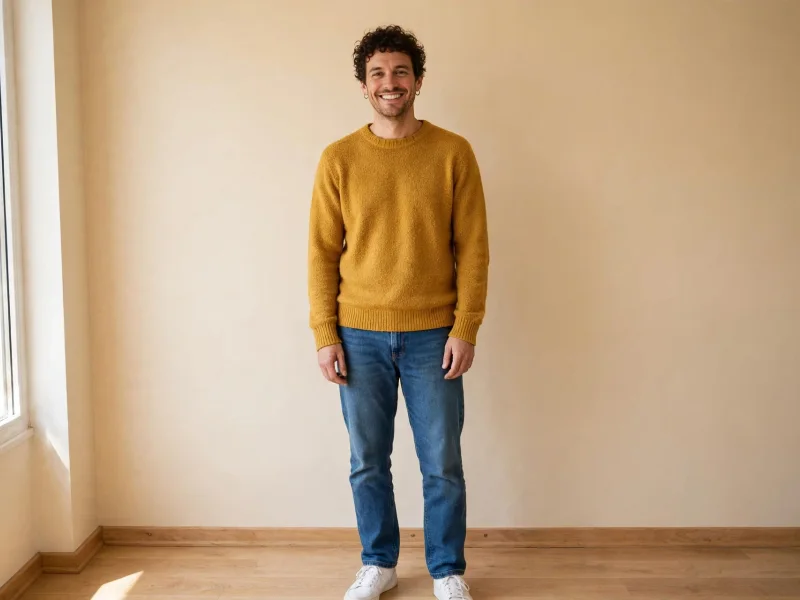
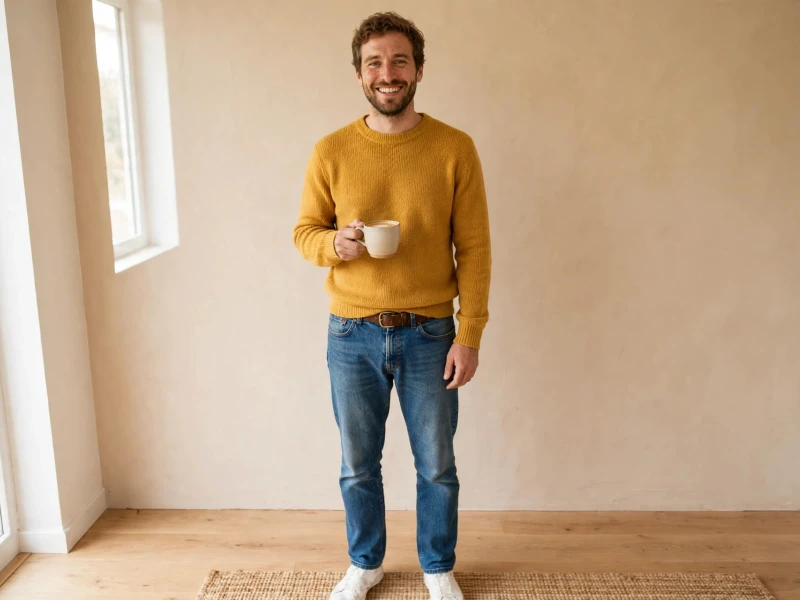
feat: show a person holding a cup in the generator example
The person example card is now 'A person holding product', and its no-product description and image show a smiling person holding a ceramic cup. Create a Person keeps the neutral full-body prompt. The example image was generated with the prompt lab (1¢, landscape, cropped to 800x600) and the lab docs point at the new prompt.

Verified: npm run typecheck, eslint on touched files, vitest library-data, npx playwright test tests/e2e/create-examples.spec.ts tests/e2e/create-person.spec.ts, and the focused studio journey with a refreshed create-empty baseline.

Changed region(s): [[0.0, 0.0, 1.0, 1.0], [0.9688, 0.72, 1.0, 0.81]]

diff --git a/tests/unit/library-data.test.ts b/tests/unit/library-data.test.ts
@@ -3,7 +3,7 @@ import fs from 'node:fs'
 import path from 'node:path'
 import { SCENES, SCENE_CATEGORIES } from '@shared/prompts/scenes'
 import { ALL_TEMPLATES, TEMPLATE_GROUPS, QUICK_FIX, templateAsset, templateById } from '@shared/prompts/templates'
-import { CREATE_PERSON_PROMPT, CREATE_PRODUCT_PROMPT, EXAMPLE_SCENES, STARTERS, exampleTextFor } from '@shared/starters'
+import { CREATE_PERSON_PROMPT, CREATE_PRODUCT_PROMPT, EXAMPLE_SCENES, PERSON_HOLDING_EXAMPLE, STARTERS, exampleTextFor } from '@shared/starters'
 import { BUNDLED_PEOPLE, BUNDLED_PERSON_LOOKS } from '@shared/people'
 import { BUNDLED_PRODUCT_SIZE, BUNDLED_PRODUCTS, bundledProductCards, isBundledProduct } from '@shared/products'
 import { wrapScenePrompt, wrapModelPrompt, PROMPT_MAX } from '@shared/prompts/guards'
@@ -109,7 +109,9 @@ describe('image generator examples', () => {
       expect(scene.productText.length).toBeLessThanOrEqual(240)
       expect(fs.existsSync(path.join(root, 'resources', 'tiles', 'examples', `${scene.key}.webp`))).toBe(true)
     }
-    expect(EXAMPLE_SCENES.find((scene) => scene.key === 'person')?.exampleText).toBe(CREATE_PERSON_PROMPT)
+    expect(EXAMPLE_SCENES.find((scene) => scene.key === 'person')?.exampleText).toBe(PERSON_HOLDING_EXAMPLE)
+    expect(PERSON_HOLDING_EXAMPLE).toContain('holding a ceramic cup')
+    expect(PERSON_HOLDING_EXAMPLE.length).toBeLessThanOrEqual(240)
     expect(CREATE_PERSON_PROMPT.length).toBeGreaterThan(0)
     expect(CREATE_PERSON_PROMPT.length).toBeLessThanOrEqual(240)
   })

diff --git a/src/shared/starters.ts b/src/shared/starters.ts
@@ -199,9 +199,13 @@ export interface ExampleScene {
   productText: string
 }
 
-/** The starting text for Create a Person and the person example card. */
+/** The starting text for Create a Person. */
 export const CREATE_PERSON_PROMPT =
   'A candid full-body photo of a smiling person in their thirties with short curly hair, wearing a mustard sweater and jeans, in a bright room with a plain warm background, natural daylight, head to toe, realistic photo.'
+
+/** The person example card shows a person holding a cup. */
+export const PERSON_HOLDING_EXAMPLE =
+  'A candid full-body photo of a smiling person holding a ceramic cup, wearing a mustard sweater and jeans, in a bright room with a plain warm background, natural daylight, head to toe, realistic photo.'
 
 /** The starting text for Create a Product. */
 export const CREATE_PRODUCT_PROMPT =
@@ -218,8 +222,8 @@ export const EXAMPLE_SCENES: readonly ExampleScene[] = [
   },
   {
     key: 'person',
-    label: 'A new person',
-    exampleText: CREATE_PERSON_PROMPT,
+    label: 'A person holding product',
+    exampleText: PERSON_HOLDING_EXAMPLE,
     productText:
       'A candid full-body photo of a smiling person holding the product, wearing a mustard sweater and jeans, in a bright room with a plain warm background, natural daylight, head to toe, realistic photo.'
   },

diff --git a/tests/e2e/create-person.spec.ts b/tests/e2e/create-person.spec.ts
@@ -37,7 +37,7 @@ test('Create a Person opens the generator and saves a generated image as a perso
     await expect(page.getByText('DESCRIBE THE IMAGE')).toBeVisible({ timeout: 20_000 })
     await expect(page.getByText('Make a new person')).toBeVisible()
     await expect(page.getByText('Click a photo to load a starting description.')).toBeVisible()
-    await expect(page.getByRole('button', { name: /A new person/ })).toBeVisible()
+    await expect(page.getByRole('button', { name: /A person holding product/ })).toBeVisible()
     await expect(page.locator('textarea').first()).toHaveValue(CREATE_PERSON_PROMPT)
 
     await page.getByRole('button', { name: /Make 1 Image/ }).click()

diff --git a/tests/e2e/create-examples.spec.ts b/tests/e2e/create-examples.spec.ts
@@ -44,7 +44,7 @@ test('an example can use the selected product photo or stay as shown', async () 
     await page.getByRole('button', { name: 'Use Example Product' }).click()
     await expect(page.getByText('Example Product', { exact: true })).toBeVisible()
     await expect(page.getByText('Click a photo to load a starting description.')).toBeVisible()
-    await expect(page.getByRole('button', { name: /A new person/ })).toBeVisible()
+    await expect(page.getByRole('button', { name: /A person holding product/ })).toBeVisible()
 
     await page.getByRole('button', { name: /Output Settings/ }).click()
     const editor = page.locator('textarea').first()

diff --git a/docs/lab.md b/docs/lab.md
@@ -77,7 +77,7 @@ Put a real product photo in `lab/sources/` and pass its path to `edit` or `creat
 
 The Image Generator examples in `resources/tiles/examples/` mix the original product scenes with outputs from this lab:
 
-- `person.webp` — generated for `CREATE_PERSON_PROMPT` with `npm run lab -- create --text "<prompt>" --shape landscape --yes` (1¢).
+- `person.webp` — generated for the person example prompt (a smiling person holding a ceramic cup) with `npm run lab -- create --text "<prompt>" --shape landscape --yes` (1¢).
 - `worn.webp` — a person wearing the product.
 - `home.webp` — a product in a room setting.
 - `jewelry.webp` — a jewelry close-up.
